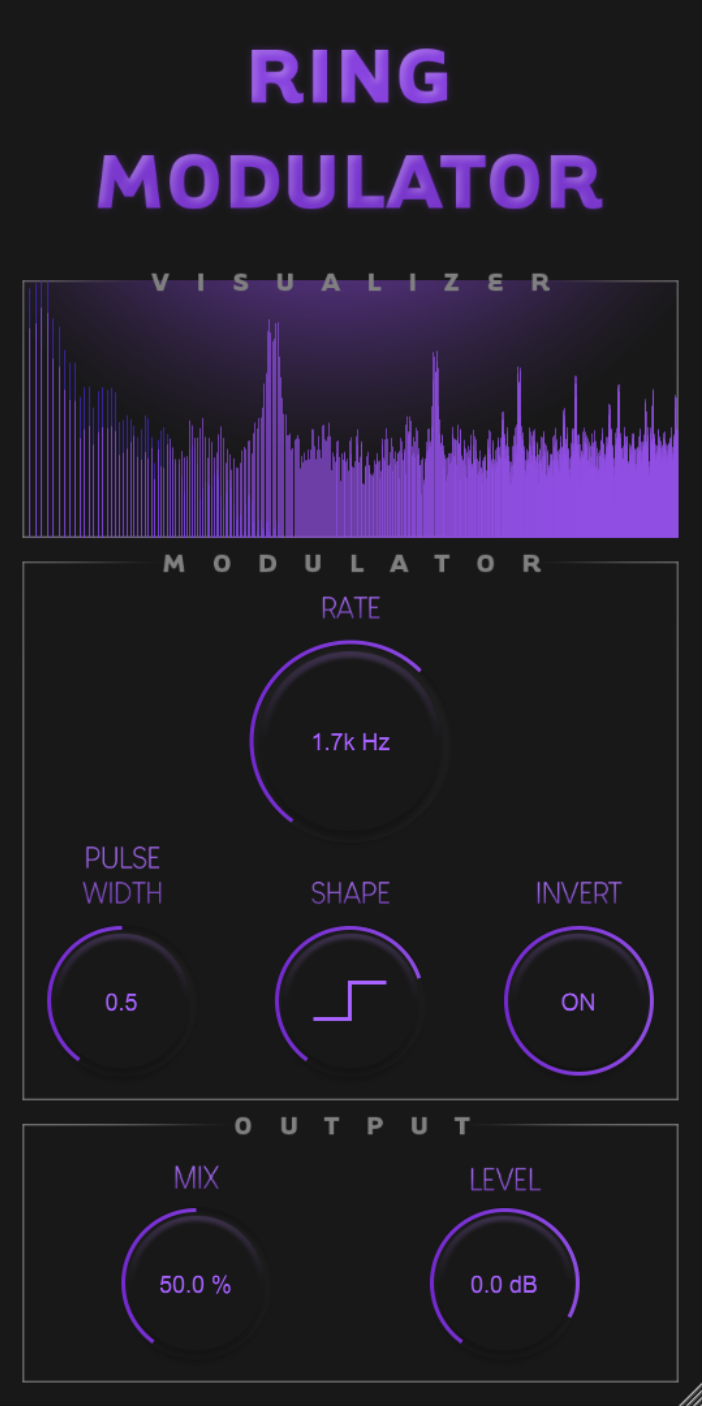
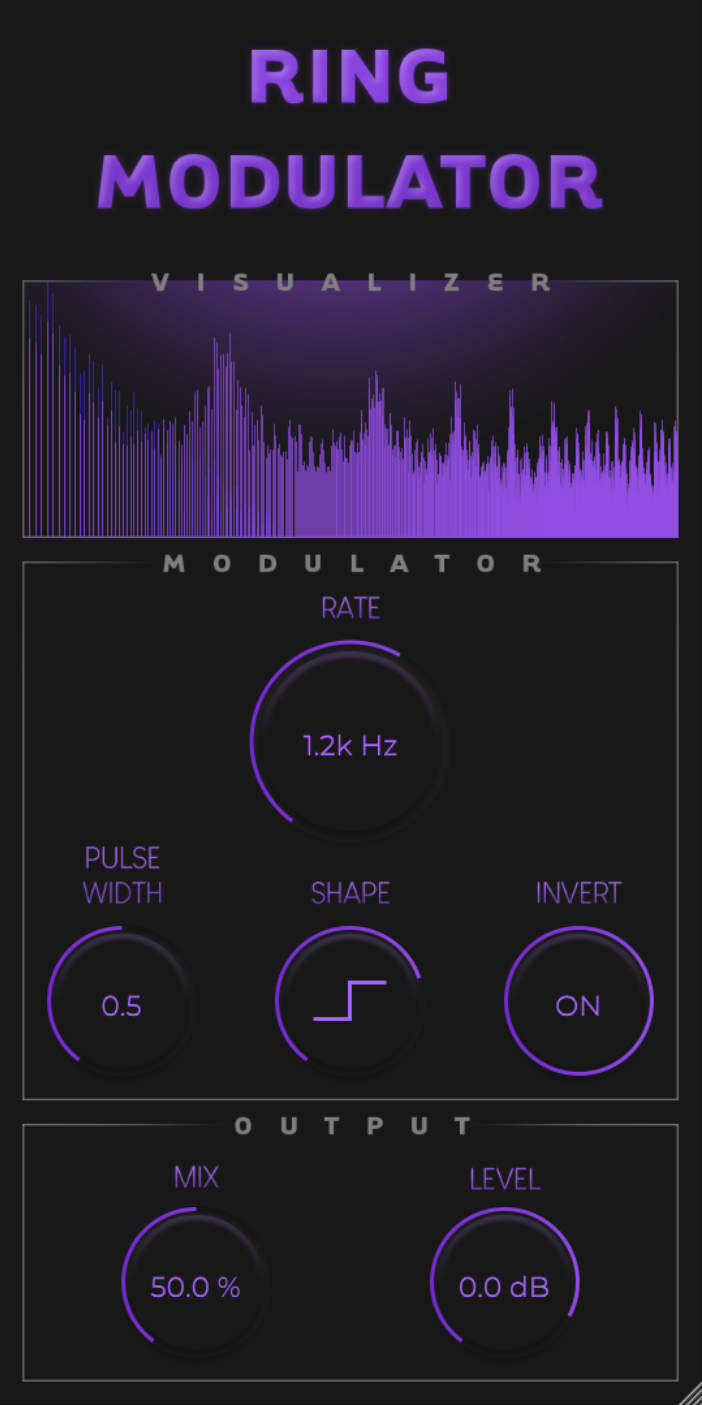
Change screenshot, update font to montserrat

diff --git a/JuceLibraryCode/AppConfig.h b/JuceLibraryCode/AppConfig.h
@@ -40,7 +40,7 @@
 #endif
 
 #ifndef JUCE_REPORT_APP_USAGE
- #define JUCE_REPORT_APP_USAGE 0
+ #define JUCE_REPORT_APP_USAGE 1
 #endif
 
 // END SECTION A
@@ -388,13 +388,13 @@
  #define JucePlugin_EditorRequiresKeyboardFocus  0
 #endif
 #ifndef  JucePlugin_Version
- #define JucePlugin_Version                v1.0.0b
+ #define JucePlugin_Version                1.0.0
 #endif
 #ifndef  JucePlugin_VersionCode
- #define JucePlugin_VersionCode            0x0
+ #define JucePlugin_VersionCode            0x10000
 #endif
 #ifndef  JucePlugin_VersionString
- #define JucePlugin_VersionString          "v1.0.0b"
+ #define JucePlugin_VersionString          "1.0.0"
 #endif
 #ifndef  JucePlugin_VSTUniqueID
  #define JucePlugin_VSTUniqueID            JucePlugin_PluginCode

diff --git a/Source/PluginEditor.cpp b/Source/PluginEditor.cpp
@@ -178,13 +178,13 @@ void RingModulatorAudioProcessorEditor::resized()
     auto area = getLocalBounds();
 
     // set layout variables 
-    auto margin = getWidth() * 1 / 30;
+    auto margin = getWidth() / 30;
     auto sectionSize = getHeight() / 5;
     auto largeDialSize = getWidth() * 13 / 45;
     auto smallDialSize = getWidth()  * 13 / 60;
 
     // set font size according to GUI editor's width
-    int fontSize = getWidth() / 27; 
+    int fontSize = getWidth() / 18; 
     lookAndFeel.setFontSize(fontSize);
 
     // remove margins from sides

diff --git a/Source/RingModulatorLookAndFeel.h b/Source/RingModulatorLookAndFeel.h
@@ -45,7 +45,7 @@ private:
     float fontSize;
     static const Font& getSliderReadoutFont(float fontSize)
     {
-        static Font sliderReadout(Font(Typeface::createSystemTypefaceFor(BinaryData::Louis_George_Cafe_Light_ttf, BinaryData::Louis_George_Cafe_Light_ttfSize)));
+        static Font sliderReadout(Font(Typeface::createSystemTypefaceFor(BinaryData::montserrat_ttf, BinaryData::montserrat_ttfSize)));
         sliderReadout.setHeight(fontSize);
         return sliderReadout;
     }

diff --git a/JuceLibraryCode/JuceHeader.h b/JuceLibraryCode/JuceHeader.h
@@ -52,7 +52,7 @@ namespace ProjectInfo
 {
     const char* const  projectName    = "Ring Modulator";
     const char* const  companyName    = "Maxwell Audio";
-    const char* const  versionString  = "v1.0.0b";
-    const int          versionNumber  = 0x0;
+    const char* const  versionString  = "1.0.0";
+    const int          versionNumber  = 0x10000;
 }
 #endif
